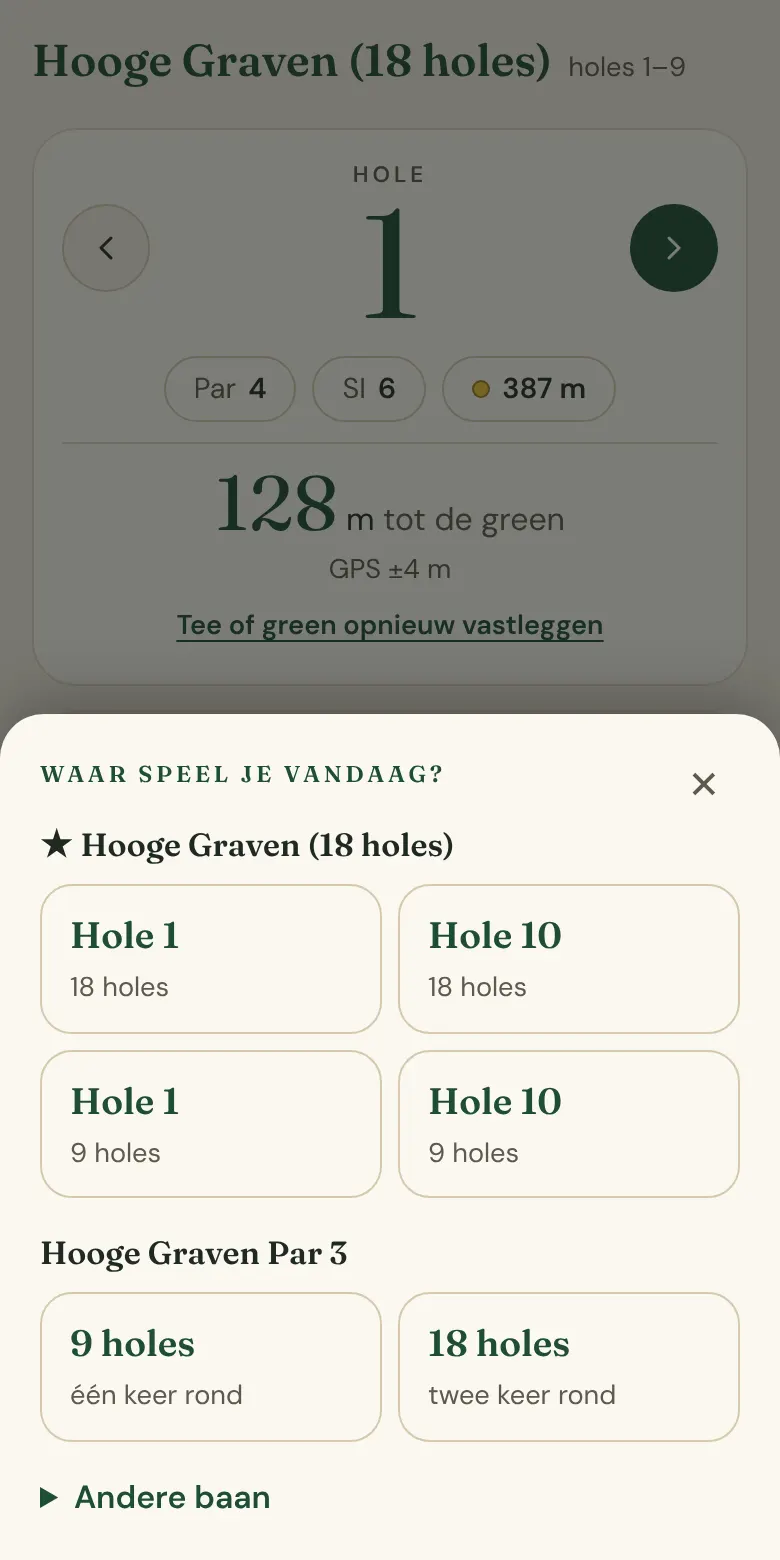
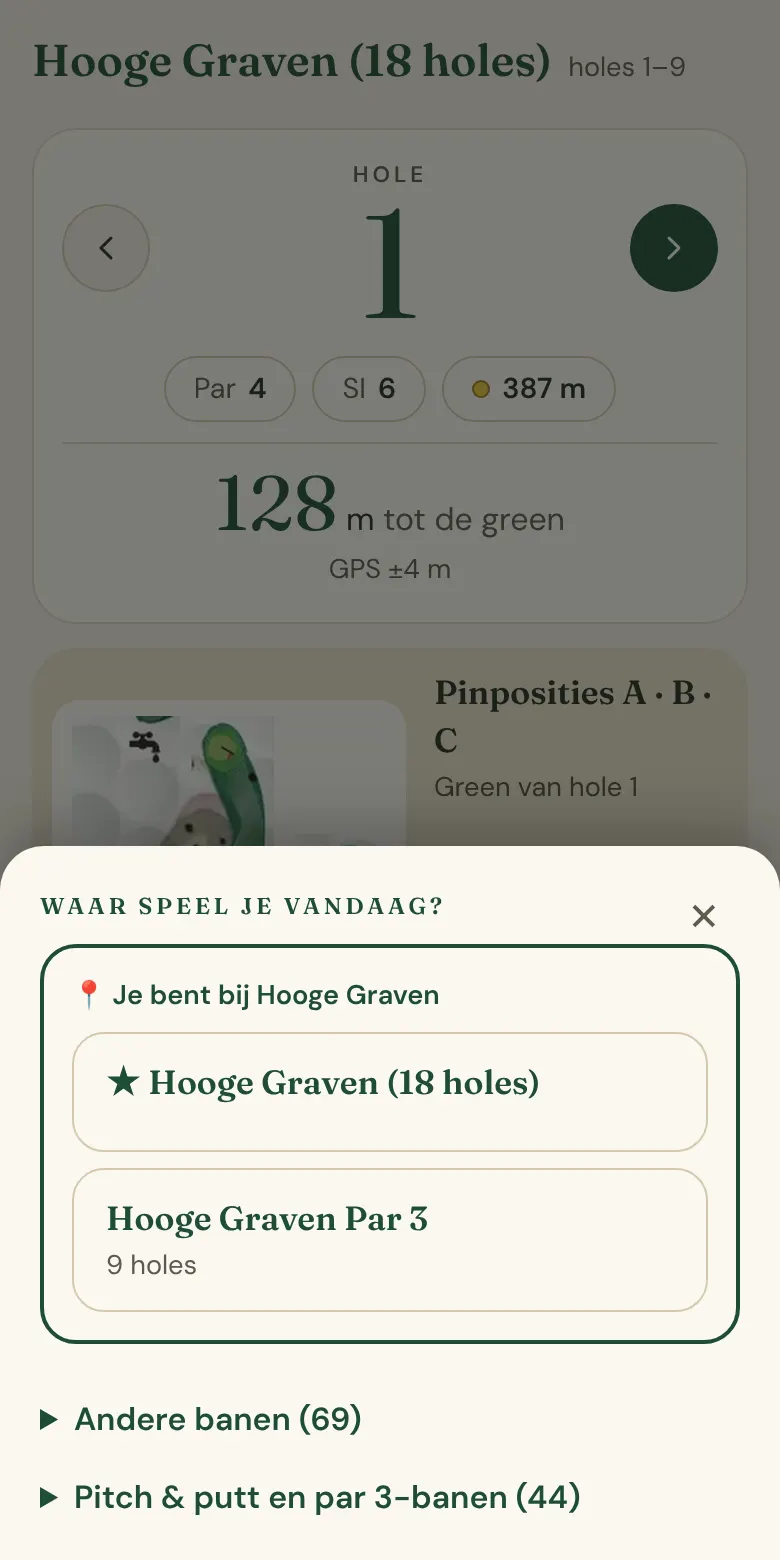
Website: schermafbeeldingen zonder schuifbalk, nieuwe baankeuze in beeld
Op brede schermen vier meeschalende kolommen; op de telefoon vegen zonder zichtbare schuifbalk.

Claude-Session: https://claude.ai/code/session_014xdgxDMMzj8Av2tih8V1wt

diff --git a/server/site/index.html b/server/site/index.html
@@ -38,10 +38,10 @@
     <a class="cta" href="https://kaprudy.github.io/Golf/">Open de app</a>
     <span class="status" aria-live="polite"><span class="dot" id="dot" aria-hidden="true"></span><span id="status">Opslagdienst controleren…</span></span>
     <div class="shots" style="margin-top:28px" aria-label="Schermafbeeldingen van de app">
-      <figure><img src="img/kies-baan.webp" alt="Baan en starthole kiezen" loading="lazy" width="200" height="400"><figcaption>Baan en starthole kiezen</figcaption></figure>
-      <figure><img src="img/ronde.webp" alt="Hole-scherm met afstand tot de green" loading="lazy" width="200" height="400"><figcaption>Afstand tot de green</figcaption></figure>
-      <figure><img src="img/scorekaart.webp" alt="Scorekaart met alle spelers" loading="lazy" width="200" height="400"><figcaption>Scorekaart</figcaption></figure>
-      <figure><img src="img/analyse.webp" alt="Analyse met differential en handicap" loading="lazy" width="200" height="400"><figcaption>Analyse na de ronde</figcaption></figure>
+      <figure><img src="img/kies-baan.webp" alt="Baan kiezen, met de baan waar je bent bovenaan" loading="lazy" width="390" height="780"><figcaption>Baan kiezen</figcaption></figure>
+      <figure><img src="img/ronde.webp" alt="Hole-scherm met afstand tot de green" loading="lazy" width="390" height="780"><figcaption>Afstand tot de green</figcaption></figure>
+      <figure><img src="img/scorekaart.webp" alt="Scorekaart met alle spelers" loading="lazy" width="390" height="780"><figcaption>Scorekaart</figcaption></figure>
+      <figure><img src="img/analyse.webp" alt="Analyse met differential en handicap" loading="lazy" width="390" height="780"><figcaption>Analyse na de ronde</figcaption></figure>
     </div>
   </section>
 

diff --git a/server/site/style.css b/server/site/style.css
@@ -49,11 +49,16 @@ section { margin: 48px 0; scroll-margin-top: 70px; }
 .grid { display: grid; grid-template-columns: repeat(auto-fit, minmax(220px, 1fr)); gap: 12px; }
 ul, ol { padding-left: 1.2em; } li { margin: 6px 0; }
 
-/* schermafbeeldingen */
-.shots { display: flex; gap: 14px; overflow-x: auto; padding: 6px 2px 14px; scroll-snap-type: x mandatory; }
-.shots figure { margin: 0; flex: 0 0 200px; scroll-snap-align: start; }
-.shots img { width: 200px; height: auto; border-radius: 22px; border: 1px solid var(--border); box-shadow: 0 8px 24px rgba(0,0,0,.08); display: block; }
+/* schermafbeeldingen: op brede schermen vier kolommen, op de telefoon vegen (zonder schuifbalk) */
+.shots { display: grid; grid-template-columns: repeat(4, minmax(0, 1fr)); gap: 14px; padding: 6px 0 4px; }
+.shots figure { margin: 0; min-width: 0; }
+.shots img { width: 100%; height: auto; border-radius: 22px; border: 1px solid var(--border); box-shadow: 0 8px 24px rgba(0,0,0,.08); display: block; }
 .shots figcaption { font-size: .85rem; color: var(--muted); margin-top: 8px; }
+@media (max-width: 720px) {
+  .shots { display: flex; overflow-x: auto; scroll-snap-type: x mandatory; scrollbar-width: none; margin: 0 -16px; padding: 6px 16px 4px; }
+  .shots::-webkit-scrollbar { display: none; }
+  .shots figure { flex: 0 0 62%; scroll-snap-align: start; }
+}
 
 /* stappen */
 .steps { counter-reset: s; list-style: none; padding: 0; display: grid; gap: 12px; }
